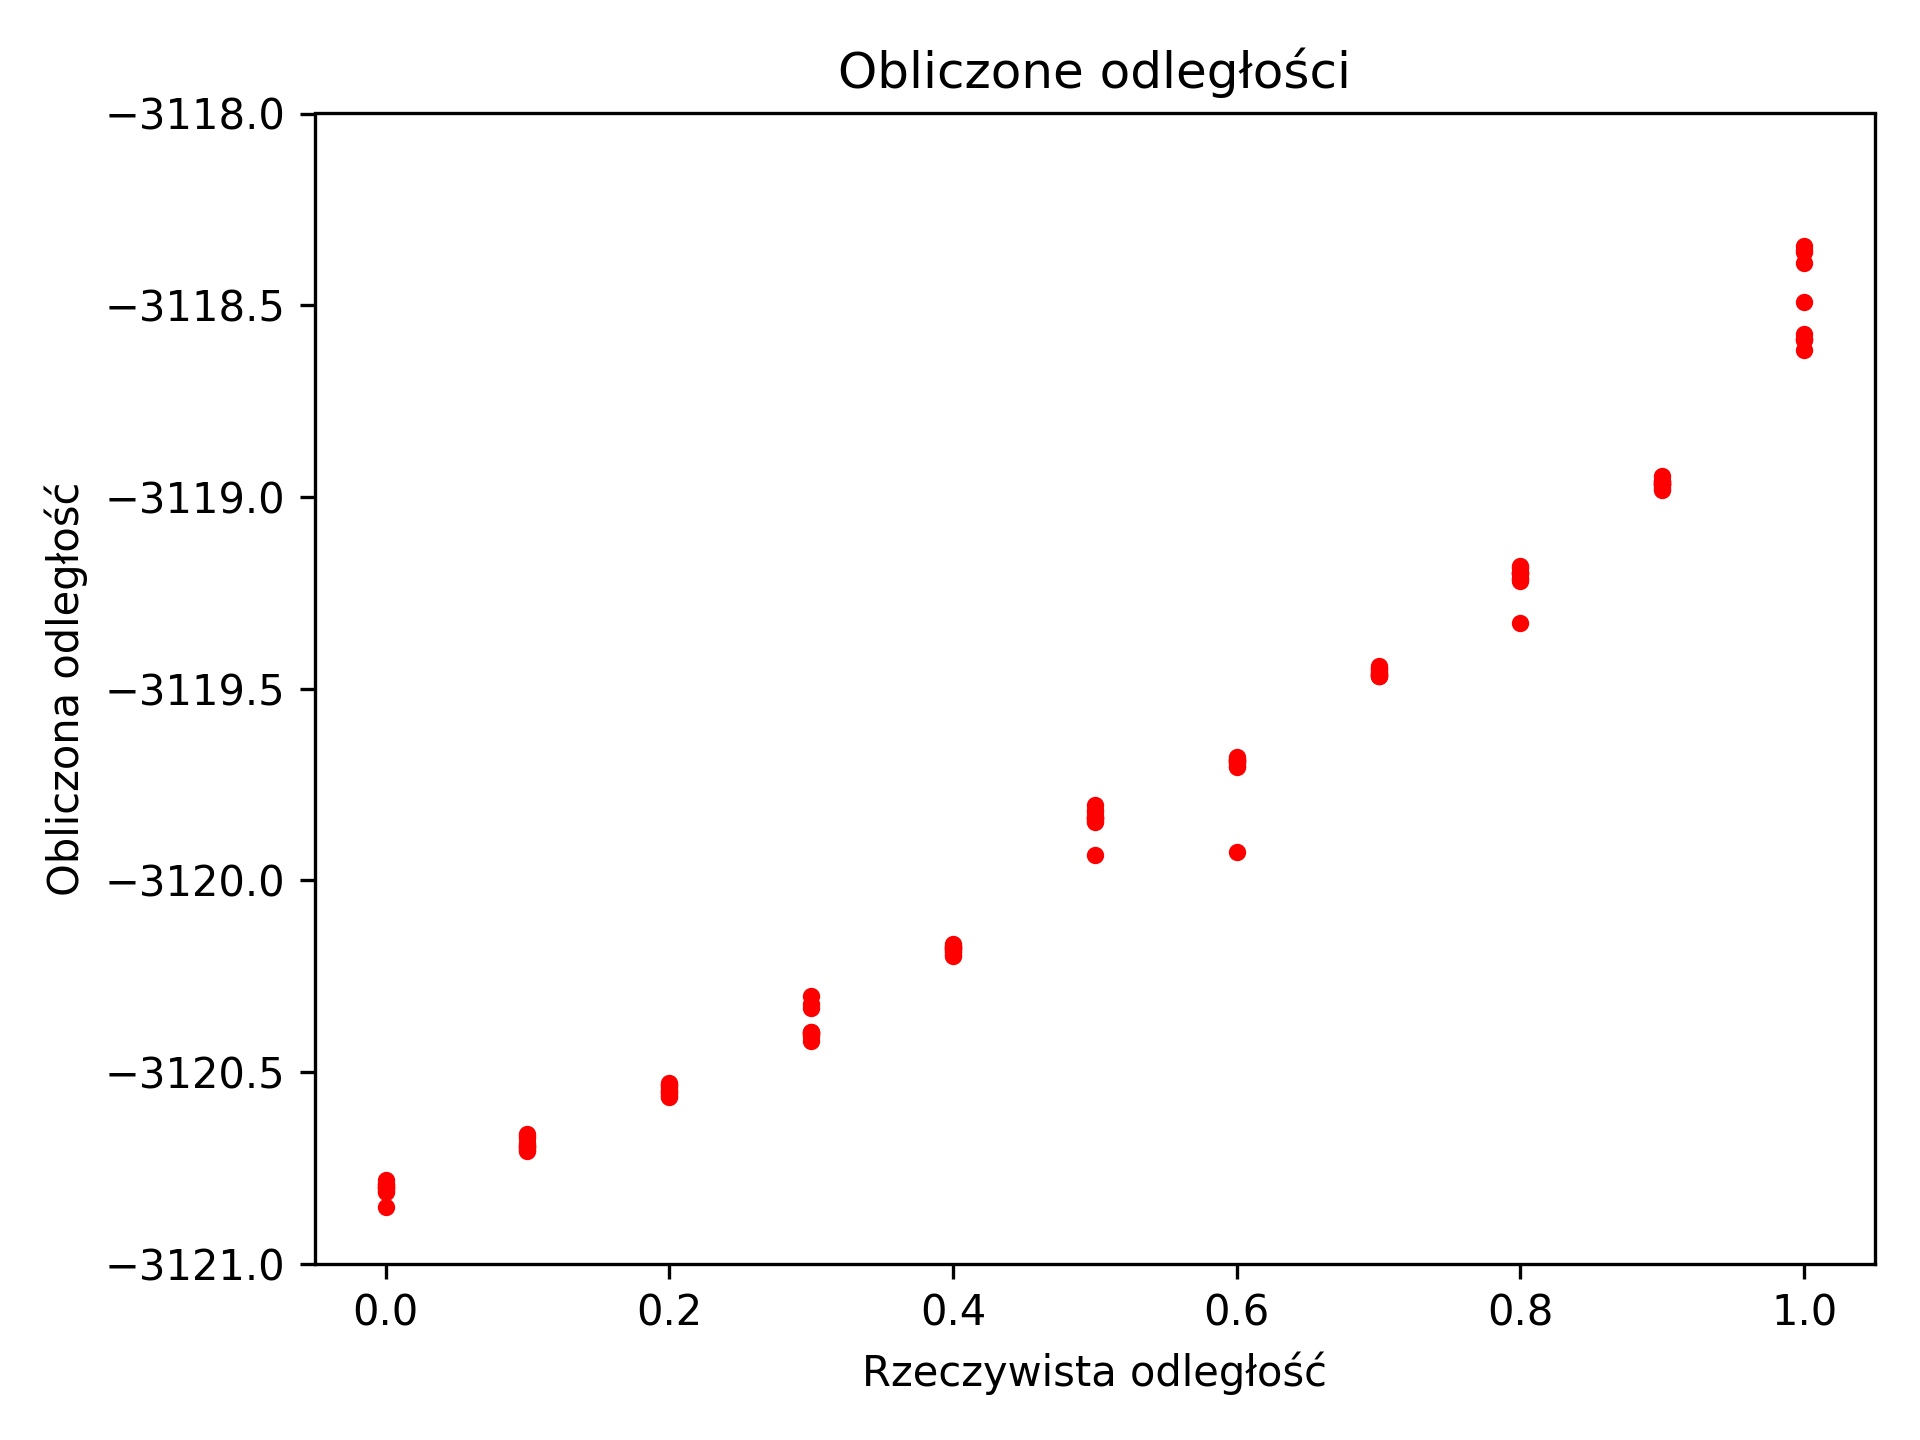
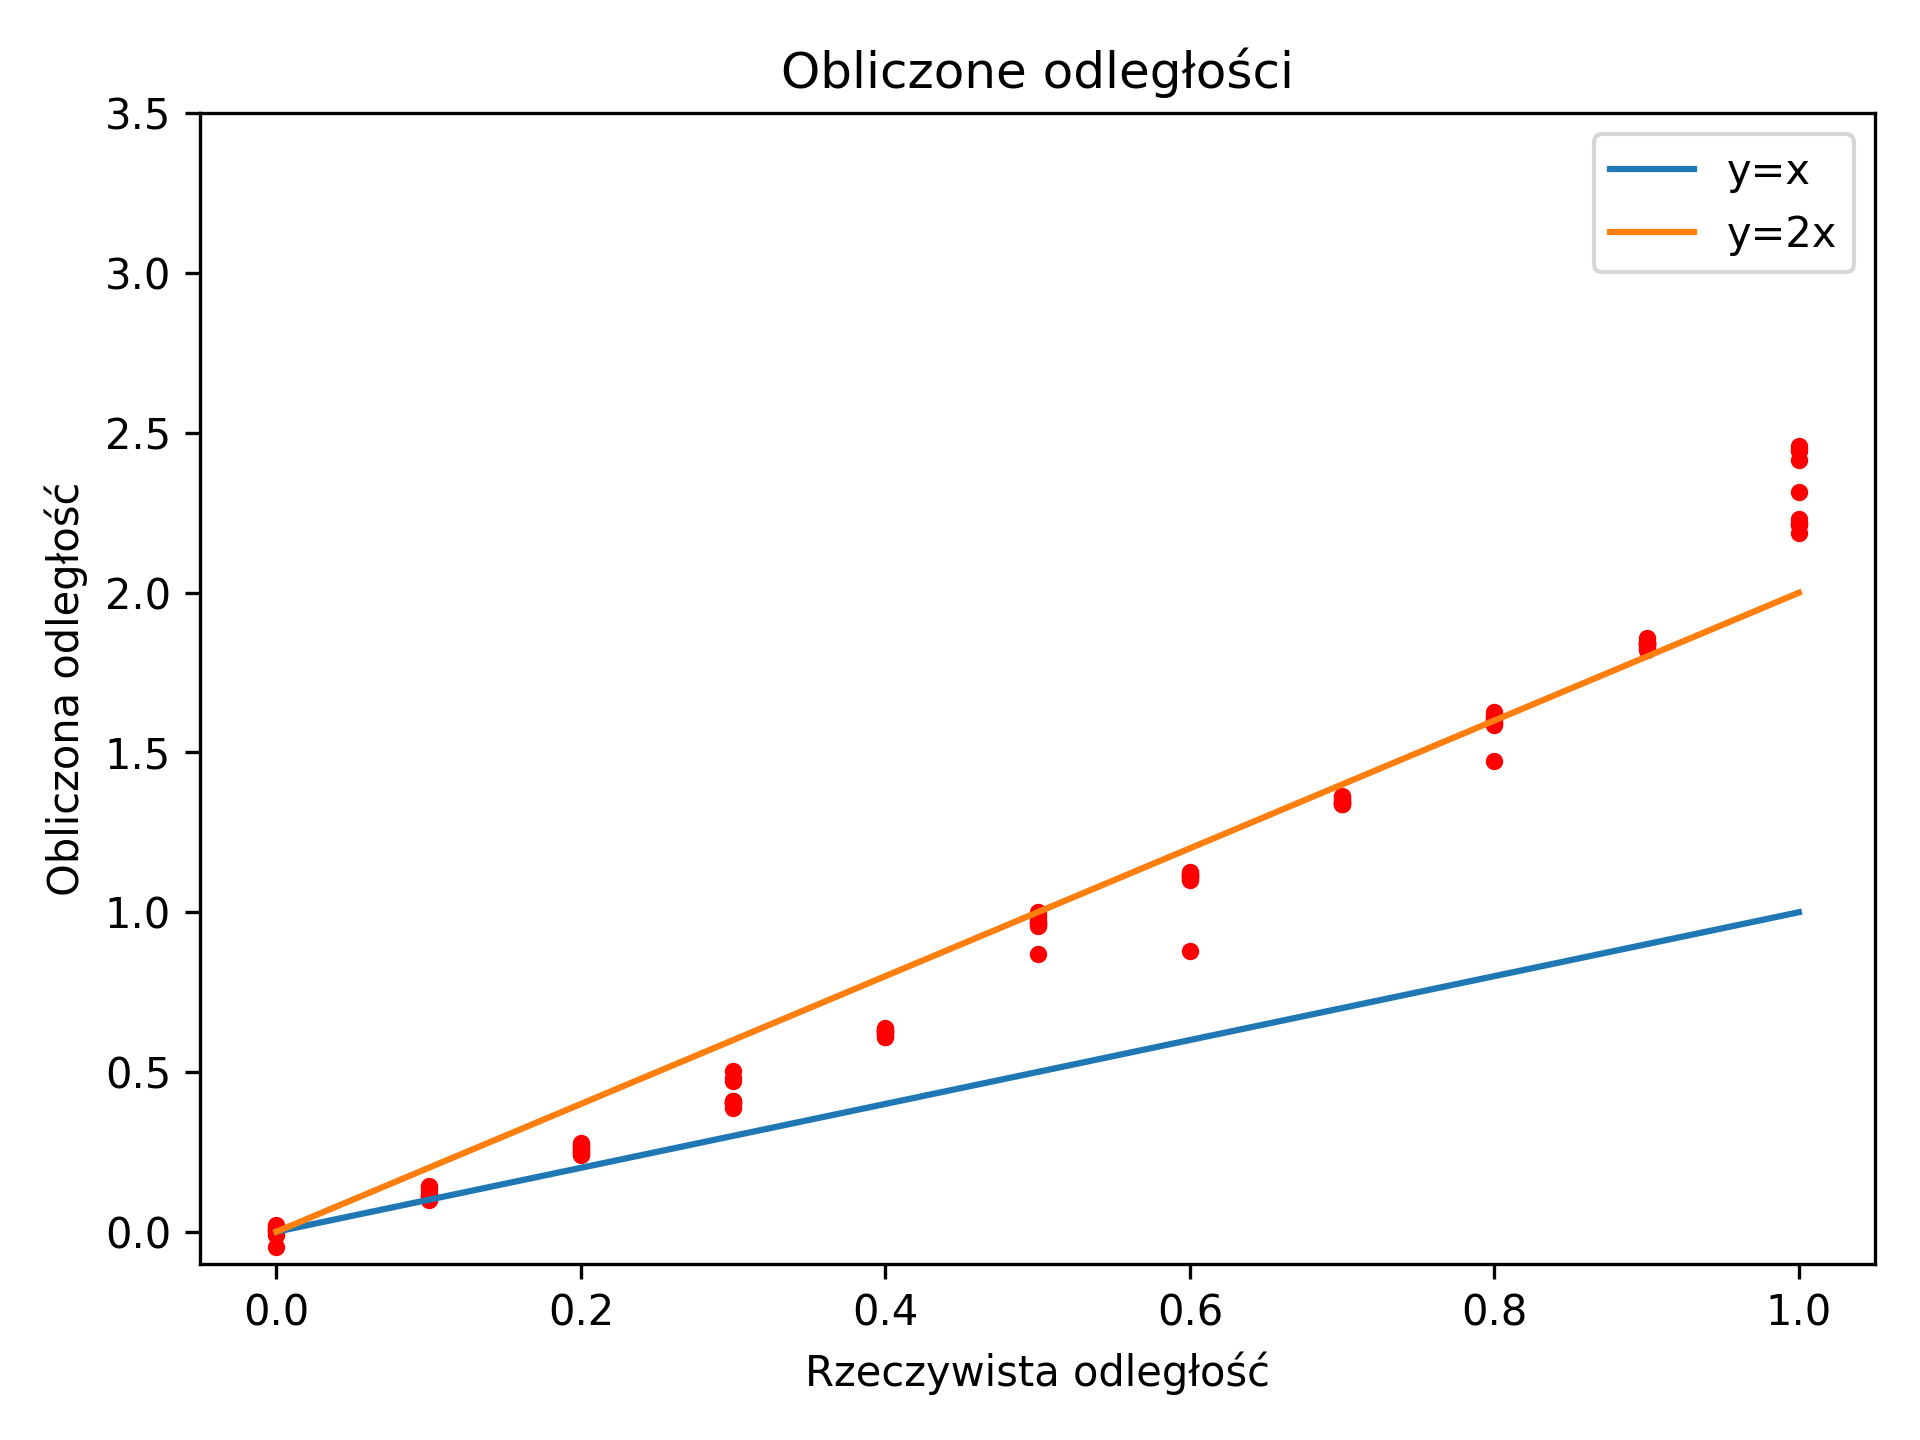
Dist charts improved

diff --git a/src/python/data/time_deltas_dist/time_delts_dist.py b/src/python/data/time_deltas_dist/time_delts_dist.py
@@ -1,7 +1,7 @@
 import matplotlib.pyplot as plt
 import pandas as pd
 
-def plot_dists(df, name, ylim):
+def plot_dists(df, name, ylim, slope):
     fig, ax = plt.subplots()
     if ylim is not None:
         ax.set_ylim(ylim)
@@ -11,7 +11,11 @@ def plot_dists(df, name, ylim):
     df_T['index2'] = df_T['index']
     df_T = df_T.astype(float)
 
-    df_T.plot(x='index', y='index2', ax=ax)
+    df_T.plot(x='index', y='index2', ax=ax, label='y=x')
+    if slope is not None:
+        df_T['index3'] = df_T['index'] * slope
+        df_T = df_T.astype(float)
+        df_T.plot(x='index', y='index3', ax=ax, label=f'y={slope}x')
     for y in range(10):
         df_T.plot(x='index', y=y, color='red', kind='scatter', s=10, ax=ax)
 
@@ -20,15 +24,15 @@ def plot_dists(df, name, ylim):
     plt.ylabel("Obliczona odległość")
     ax.get_legend().remove()
     plt.tight_layout()
+    plt.legend()
     plt.savefig(f'../../charts/time_deltas_dist/{name}.png', dpi=300)
     plt.close()
 
-
 if __name__ == '__main__':
-    ylims = [(-3121, -3118), (-2578, -2575), (-6833, -6830.5), (-1750, -1550)]
     for i in range(4):
         df = pd.read_csv(f'time_deltas_dist_{i}.csv')
         df = df.assign(row_number=range(len(df)))
 
-        plot_dists(df, f'dists_{i}', None)
-        plot_dists(df, f'dists_close_{i}', ylims[i])
+        plot_dists(df, f'dists_{i}', None, None)
+        df -= df['0.0'].mean()
+        plot_dists(df, f'dists_close_{i}', (-.1, 3.5), 2)

diff --git a/src/python/data/mic_sync_dist/mic_sync_dist.py b/src/python/data/mic_sync_dist/mic_sync_dist.py
@@ -1,7 +1,7 @@
 import matplotlib.pyplot as plt
 import pandas as pd
 
-def plot_dists(df, name, ylim):
+def plot_dists(df, name, ylim, slope):
     fig, ax = plt.subplots()
     if ylim is not None:
         ax.set_ylim(ylim)
@@ -11,7 +11,11 @@ def plot_dists(df, name, ylim):
     df_T['index2'] = df_T['index']
     df_T = df_T.astype(float)
 
-    df_T.plot(x='index', y='index2', ax=ax)
+    df_T.plot(x='index', y='index2', ax=ax, label='y=x')
+    if slope is not None:
+        df_T['index3'] = df_T['index'] * slope
+        df_T = df_T.astype(float)
+        df_T.plot(x='index', y='index3', ax=ax, label=f'y={slope}x')
     for y in range(10):
         df_T.plot(x='index', y=y, color='red', kind='scatter', s=10, ax=ax)
 
@@ -20,13 +24,14 @@ def plot_dists(df, name, ylim):
     plt.ylabel("Obliczona odległość")
     ax.get_legend().remove()
     plt.tight_layout()
+    plt.legend()
     plt.savefig(f'../../charts/mic_sync_dist/{name}.png', dpi=300)
     plt.close()
 
-
 if __name__ == '__main__':
-    df = pd.read_csv('mic_sync_dist.csv')
-    df = df.assign(row_number=range(len(df)))
+    for i in range(4):
+        df = pd.read_csv(f'mic_sync_dist_{i}.csv')
+        df = df.assign(row_number=range(len(df)))
 
-    plot_dists(df, 'dists', None)
-    plot_dists(df, 'dists_close', (-.1, 3.5))
+        plot_dists(df, f'dists_{i}', None, None)
+        plot_dists(df, f'dists_close_{i}', (-.1, 3.5), 3)

diff --git a/src/python/data/ntp_sync_dist/ntp_sync_dist.py b/src/python/data/ntp_sync_dist/ntp_sync_dist.py
@@ -1,7 +1,7 @@
 import matplotlib.pyplot as plt
 import pandas as pd
 
-def plot_dists(df, name, ylim):
+def plot_dists(df, name, ylim, slope):
     fig, ax = plt.subplots()
     if ylim is not None:
         ax.set_ylim(ylim)
@@ -11,7 +11,11 @@ def plot_dists(df, name, ylim):
     df_T['index2'] = df_T['index']
     df_T = df_T.astype(float)
 
-    df_T.plot(x='index', y='index2', ax=ax)
+    df_T.plot(x='index', y='index2', ax=ax, label='y=x')
+    if slope is not None:
+        df_T['index3'] = df_T['index'] * slope
+        df_T = df_T.astype(float)
+        df_T.plot(x='index', y='index3', ax=ax, label=f'y={slope}x')
     for y in range(10):
         df_T.plot(x='index', y=y, color='red', kind='scatter', s=10, ax=ax)
 
@@ -20,14 +24,16 @@ def plot_dists(df, name, ylim):
     plt.ylabel("Obliczona odległość")
     ax.get_legend().remove()
     plt.tight_layout()
+    plt.legend()
     plt.savefig(f'../../charts/ntp_sync_dist/{name}.png', dpi=300)
     plt.close()
 
-
 if __name__ == '__main__':
+    offsets = [23.35, 22.9, 23.5, 24.5]
     for i in range(4):
         df = pd.read_csv(f'ntp_sync_dist_{i}.csv')
         df = df.assign(row_number=range(len(df)))
 
-        plot_dists(df, f'dists_{i}', (-1,30))
-        plot_dists(df, f'dists_close_{i}', (22, 30))
+        plot_dists(df, f'dists_{i}', None, None)
+        df -= offsets[i]
+        plot_dists(df, f'dists_close_{i}', (-.1, 3.5), 3)
